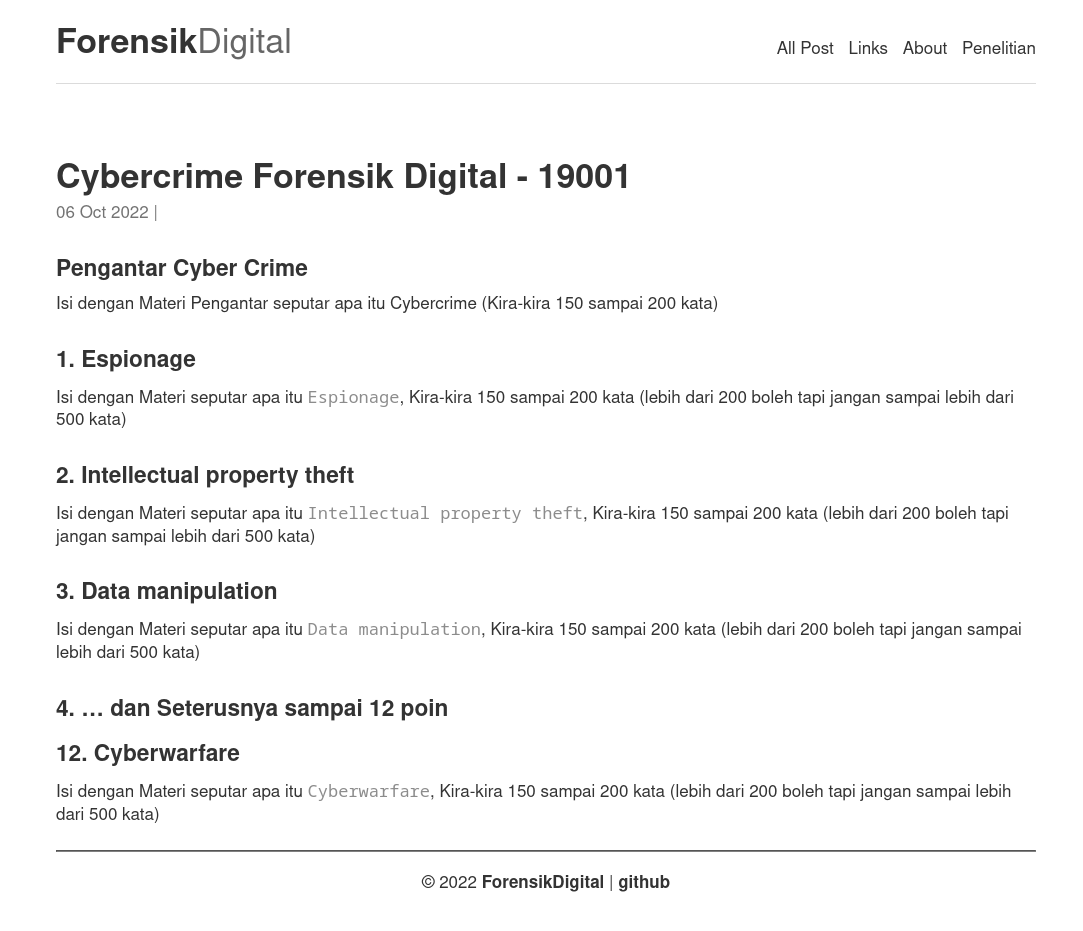
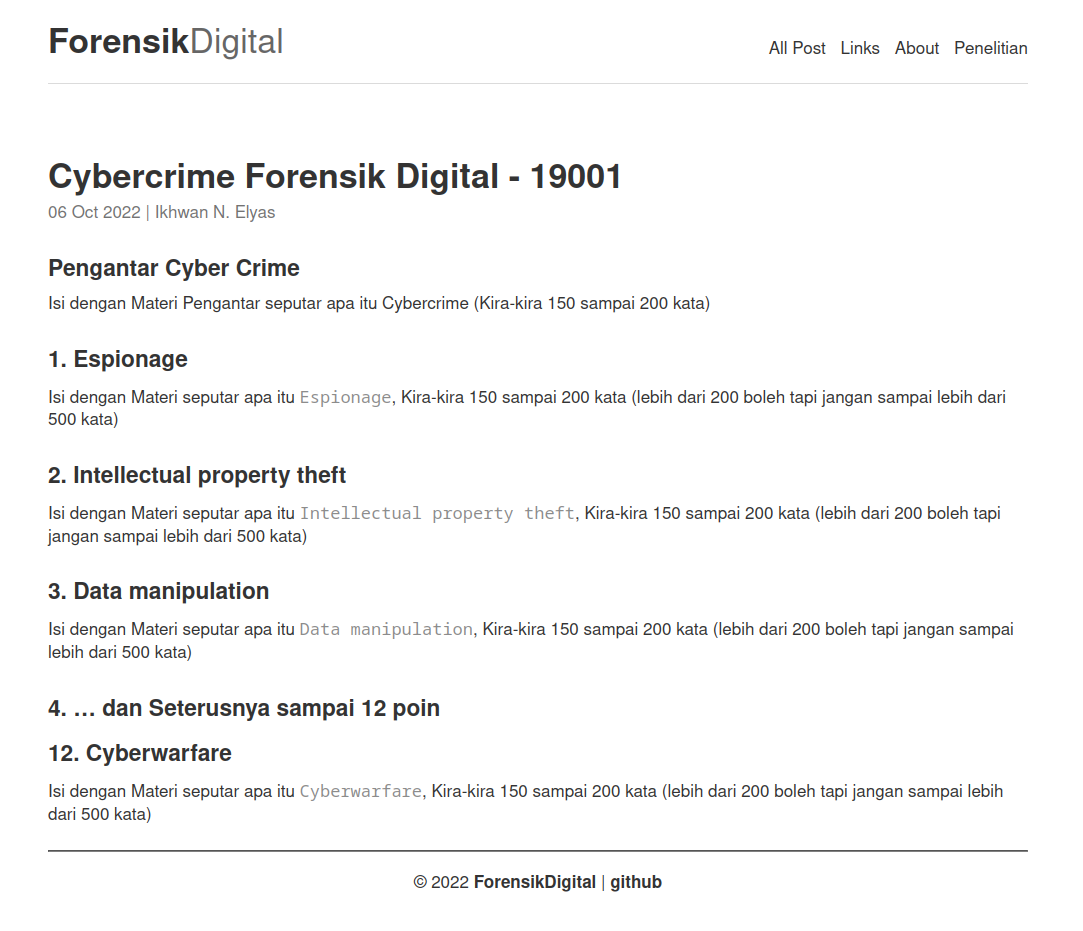
Fix Post Pengganti Pertemuan ke-3 dan ke-4 v4

diff --git a/_site/KuliahFD.html b/_site/KuliahFD.html
@@ -213,7 +213,8 @@
 
 			<article id="post-page">
 	<h2>Kuliah FORENSIK DIGITAL</h2>		
-	<time datetime="2022-10-06T00:00:00-04:00" class="by-line">06 Oct 2022 | </time>
+	<!-- <time datetime="2022-10-06T00:00:00-04:00" class="by-line">06 Oct 2022 | </time> -->
+	<time datetime="2022-10-06T00:00:00-04:00" class="by-line">06 Oct 2022 | </time> 
 	<div class="content">
 
 		<h2 id="pengganti-pertemuan-empat-04---tugas">PENGGANTI PERTEMUAN EMPAT 04 - TUGAS:</h2>
@@ -246,22 +247,24 @@
   <li>Tulis Materi dengan mengikuti format <code class="language-plaintext highlighter-rouge">Markdown</code> sesuai dengan file yang saya sharing berikut ini: <b><a href="reff/2022-11-11-tugas-NPM.md.txt" target="_blank">Contoh File Markdown Ini</a></b></li>
   <li>Download atau Copy dan simpan dengan NAMA FILE: <b><code class="language-plaintext highlighter-rouge">2022-11-11-tugas-NPM.md</code></b> (ubah NPM dengan lima digit terakhir npm anda)</li>
   <li>
-    <p>Ubah bagian <code class="language-plaintext highlighter-rouge">title</code> yang ada dibagian baris pertama dengan NPM anda (Lima digit terakhir)</p>
+    <p>Ubah bagian <code class="language-plaintext highlighter-rouge">title</code> dan <code class="language-plaintext highlighter-rouge">author</code> yang ada dibagian pertama/atas dari file dengan NPM anda (Lima digit terakhir) dan isi NAMA_ANDA</p>
 
     <div class="language-md highlighter-rouge"><div class="highlight"><pre class="highlight"><code><span class="p">     ---</span>
-     title: Cybercrime Forensik Digital - NPM
+     title: Tugas Forensik Digital - NPM
+     category: Tugas P4
+     author: NAMA_ANDA
      published: true
 <span class="p">     ---
-
 </span></code></pre></div>    </div>
 
     <p>Menjadi</p>
 
     <div class="language-md highlighter-rouge"><div class="highlight"><pre class="highlight"><code><span class="p">     ---</span>
-     title: Cybercrime Forensik Digital  - 19001
+     title: Tugas Forensik Digital - 19001
+     category: Tugas P4
+     author: Ikhwan N. Elyas
      published: true
 <span class="p">     ---
-
 </span></code></pre></div>    </div>
   </li>
   <li>Isi dan lengkapi dari file yang telah anda copy atau download dengan materi dari 12 poin tentang Cybercrime sesuai yang ada di gambar dibawah !,</li>

diff --git a/_site/tugas-19001.html b/_site/tugas-19001.html
@@ -38,7 +38,7 @@
 <title>Cybercrime Forensik Digital - 19001 | Forensik Digital</title>
 <meta name="generator" content="Jekyll v4.2.2" />
 <meta property="og:title" content="Cybercrime Forensik Digital - 19001" />
-<meta name="author" content="Info UMMU Ternate" />
+<meta name="author" content="Ikhwan N. Elyas" />
 <meta property="og:locale" content="en_US" />
 <meta name="description" content="Pengantar Cyber Crime" />
 <meta property="og:description" content="Pengantar Cyber Crime" />
@@ -50,7 +50,7 @@
 <meta name="twitter:card" content="summary" />
 <meta property="twitter:title" content="Cybercrime Forensik Digital - 19001" />
 <script type="application/ld+json">
-{"@context":"https://schema.org","@type":"BlogPosting","author":{"@type":"Person","name":"Info UMMU Ternate","url":"https://infoummu.github.io"},"dateModified":"2022-10-06T00:00:00-04:00","datePublished":"2022-10-06T00:00:00-04:00","description":"Pengantar Cyber Crime","headline":"Cybercrime Forensik Digital - 19001","mainEntityOfPage":{"@type":"WebPage","@id":"http://192.168.56.118:4003/tugas-19001"},"url":"http://192.168.56.118:4003/tugas-19001"}</script>
+{"@context":"https://schema.org","@type":"BlogPosting","author":{"@type":"Person","name":"Ikhwan N. Elyas"},"dateModified":"2022-10-06T00:00:00-04:00","datePublished":"2022-10-06T00:00:00-04:00","description":"Pengantar Cyber Crime","headline":"Cybercrime Forensik Digital - 19001","mainEntityOfPage":{"@type":"WebPage","@id":"http://192.168.56.118:4003/tugas-19001"},"url":"http://192.168.56.118:4003/tugas-19001"}</script>
 <!-- End Jekyll SEO tag -->
 
 
@@ -213,7 +213,8 @@
 
 			<article id="post-page">
 	<h2>Cybercrime Forensik Digital  - 19001</h2>		
-	<time datetime="2022-10-06T00:00:00-04:00" class="by-line">06 Oct 2022 | </time>
+	<!-- <time datetime="2022-10-06T00:00:00-04:00" class="by-line">06 Oct 2022 | Tugas P4</time> -->
+	<time datetime="2022-10-06T00:00:00-04:00" class="by-line">06 Oct 2022 | Ikhwan N. Elyas</time> 
 	<div class="content">
 
 		<h3 id="pengantar-cyber-crime">Pengantar Cyber Crime</h3>

diff --git a/_site/index.html b/_site/index.html
@@ -235,8 +235,8 @@
 
 	  <li class="post">
 	  	<h3><a href="/tugas-19001.html">Cybercrime Forensik Digital  - 19001</a></h3>
-      	<time datetime="2022-10-06T00:00:00-04:00" class="by-line">   | <i>06 Oct 2022</i> </time> 
-<!--		<time datetime="" class="by-line"> <i></i> | </time> -->
+      	<time datetime="2022-10-06T00:00:00-04:00" class="by-line"> Tugas P4  | <i>06 Oct 2022</i> </time> 
+<!--		<time datetime="" class="by-line"> <i></i> | Tugas P4</time> -->
 	  	 <p>Pengantar Cyber Crime Isi dengan Materi Pengantar seputar apa itu Cybercrime (Kira-kira 150 sampai 200 kata) 1. Espionage Isi dengan Materi seputar apa itu Espionage, Kira-kira 150 sampai 200 kata (lebih dari 200 boleh tapi jangan sampai lebih dari 500 kata) 2. Intellectual property theft Isi dengan Materi seputar apa itu Intellectual property theft, Kira-kira 150 sampai 200 kata (lebih...</p> 
 	  </li>
 

diff --git a/_layouts/post.html b/_layouts/post.html
@@ -3,7 +3,8 @@ layout: default
 ---
 <article id="post-page">
 	<h2>{%if page.header %}{{ page.header }}{% else %}{{ page.title }}{% endif %}</h2>		
-	<time datetime="{{ page.date | date_to_xmlschema }}" class="by-line">{{ page.date | date_to_string }} | {{page.categories}}</time>
+	<!-- <time datetime="{{ page.date | date_to_xmlschema }}" class="by-line">{{ page.date | date_to_string }} | {{page.categories}}</time> -->
+	<time datetime="{{ page.date | date_to_xmlschema }}" class="by-line">{{ page.date | date_to_string }} | {{page.author}}</time> 
 	<div class="content">
 
 		{{ content }}

diff --git a/_posts/2022-10-06-KuliahFD.md b/_posts/2022-10-06-KuliahFD.md
@@ -18,24 +18,26 @@ published: true
 1. Untuk Pengganti Pertemuan ke-4, anda diminta untuk membuat Artikel dengan materi tentang `CYBERCRIME` dengan ISI MATERI mengikuti POIN-POIN yang ada pada GAMBAR DIBAWAH !.
 2. Tulis Materi dengan mengikuti format `Markdown` sesuai dengan file yang saya sharing berikut ini: <b>[Contoh File Markdown Ini](reff/2022-11-11-tugas-NPM.md.txt){:target="_blank"}</b>
 3. Download atau Copy dan simpan dengan NAMA FILE: <b>`2022-11-11-tugas-NPM.md`</b> (ubah NPM dengan lima digit terakhir npm anda)
-4. Ubah bagian `title` yang ada dibagian baris pertama dengan NPM anda (Lima digit terakhir)
+4. Ubah bagian `title` dan `author` yang ada dibagian pertama/atas dari file dengan NPM anda (Lima digit terakhir) dan isi NAMA_ANDA
 
     ```md
         ---
-        title: Cybercrime Forensik Digital - NPM
+        title: Tugas Forensik Digital - NPM
+        category: Tugas P4
+        author: NAMA_ANDA
         published: true
         ---
-
     ```
 
     Menjadi 
 
     ```md
         ---
-        title: Cybercrime Forensik Digital  - 19001
+        title: Tugas Forensik Digital - 19001
+        category: Tugas P4
+        author: Ikhwan N. Elyas
         published: true
         ---
-
     ```
 5. Isi dan lengkapi dari file yang telah anda copy atau download dengan materi dari 12 poin tentang Cybercrime sesuai yang ada di gambar dibawah !,
 4. Setelah itu, jika telah selesai silahkan UPLOAD/KIRIM ke [`Google Drive ini`](https://drive.google.com/drive/folders/1BhhJrvBiiE0DQAQI6j4cKj4OUsIfUH4p?usp=sharing){:target="_blank"} ke masing-masing FOLDER yang sudah anda buat SEBELUMnya (Lihat INSTRUKSI pada TUGAS Pertemuan Ke-3 sebelumnya dibawah).

diff --git a/_posts/2022-10-06-tugas-19001.md b/_posts/2022-10-06-tugas-19001.md
@@ -1,5 +1,7 @@
 ---
 title: Cybercrime Forensik Digital  - 19001
+category: Tugas P4
+author: Ikhwan N. Elyas
 published: true
 ---
 
